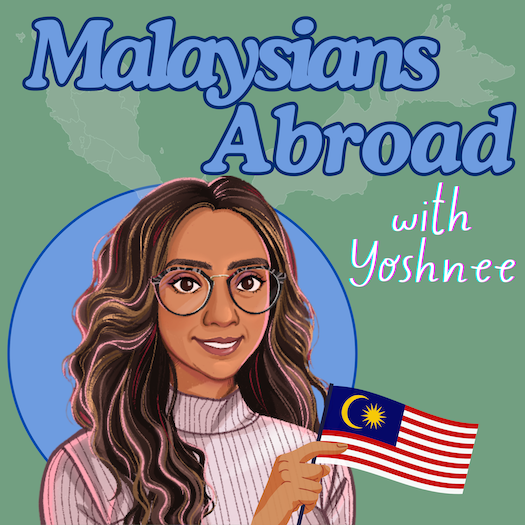
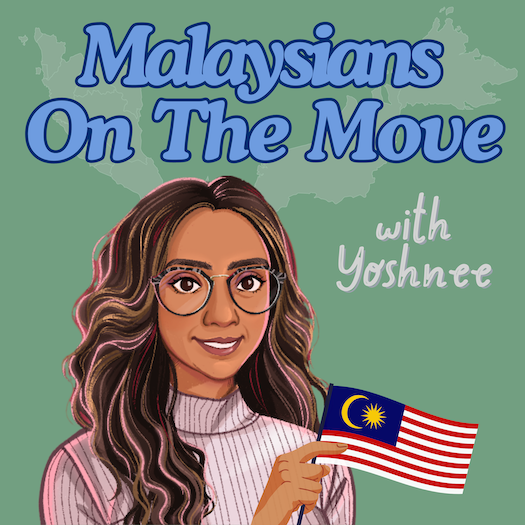
Update podcast name

diff --git a/templates/index.html b/templates/index.html
@@ -161,7 +161,7 @@
         </div>
         <div class="col-lg-8 pt-4 pt-lg-0 content" data-aos="fade-left">
           <p class="box">
-            I’ve recently launched <b>Malaysians Abroad</b> as a podcast side project to share inspiring stories of Malaysians living abroad.<br><br>
+            I’ve recently launched <b>Malaysians on the Move</b> as a podcast side project to share inspiring stories of Malaysians living abroad.<br><br>
             I speak with a diverse range of guests of Malaysian origin who have embarked on the adventure of moving away. We explore their reasons for leaving Malaysia, the challenges they’ve encountered, and the opportunities they've found in their new homes.
             Through candid conversations, gain insights into their cultural adjustments, career transitions, and personal milestones.<br><br> Whether you're considering a move abroad or are curious about different life paths, you'll find inspiration in these compelling stories from around the world.<br><br>I would appreciate it if you gave my podcast a listen! Available on Spotify!<br> 
           </p>
@@ -177,7 +177,7 @@
       </div>
 
       <div class="row">
-        <iframe style="border-radius:12px" src="https://open.spotify.com/embed/episode/5PflbmzwlxkMUexqJmgrXD?utm_source=generator" width="100%" height="352" frameBorder="0" allowfullscreen="" allow="autoplay; clipboard-write; encrypted-media; fullscreen; picture-in-picture" loading="lazy"></iframe>
+        <iframe style="border-radius:12px" src="https://open.spotify.com/embed/episode/5PflbmzwlxkMUexqJmgrXD?utm_source=generator&theme=0" width="100%" height="352" frameBorder="0" allowfullscreen="" allow="autoplay; clipboard-write; encrypted-media; fullscreen; picture-in-picture" loading="lazy"></iframe>
       </div>
 
     </div> <!-- End Episode Trailer container -->
